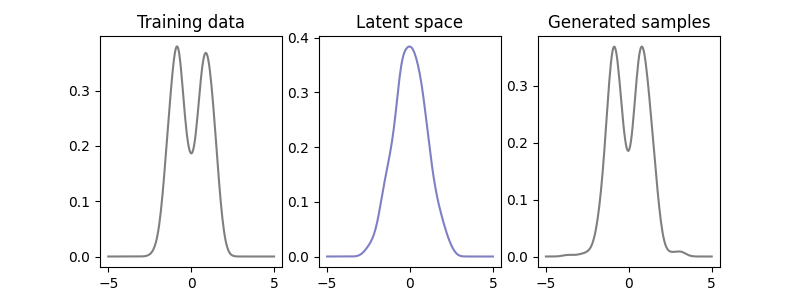
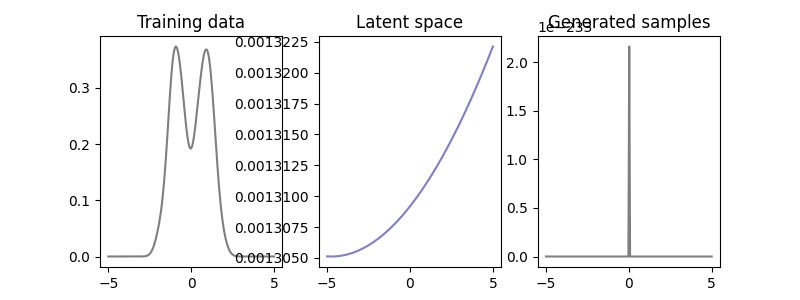
first

diff --git a/examples/flow_1d.py b/examples/flow_1d.py
@@ -9,7 +9,7 @@ import torch
 import torch.optim as optim
 import torch.nn.functional as F
 from argparse import ArgumentParser
-from torch.distributions import MultivariateNormal
+from torch.distributions import MultivariateNormal, Uniform
 
 from nf.flows import *
 from nf.models import NormalizingFlowModel
@@ -30,7 +30,7 @@ if __name__ == "__main__":
     argparser = ArgumentParser()
     argparser.add_argument("--n", default=512, type=int)
     argparser.add_argument("--flows", default=2, type=int)
-    argparser.add_argument("--flow", default="NSF_AR", type=str)
+    argparser.add_argument("--flow", default="ActNorm", type=str)
     argparser.add_argument("--iterations", default=500, type=int)
     args = argparser.parse_args()
 
@@ -39,7 +39,8 @@ if __name__ == "__main__":
 
     flow = eval(args.flow)
     flows = [flow(dim=1) for _ in range(args.flows)]
-    prior = MultivariateNormal(torch.zeros(1), torch.eye(1))
+    # prior = MultivariateNormal(torch.zeros(1), torch.eye(1))
+    prior = Uniform(torch.tensor([0.0]), torch.tensor([1.0]))
     model = NormalizingFlowModel(prior, flows)
 
     optimizer = optim.Adam(model.parameters(), lr=0.005)
